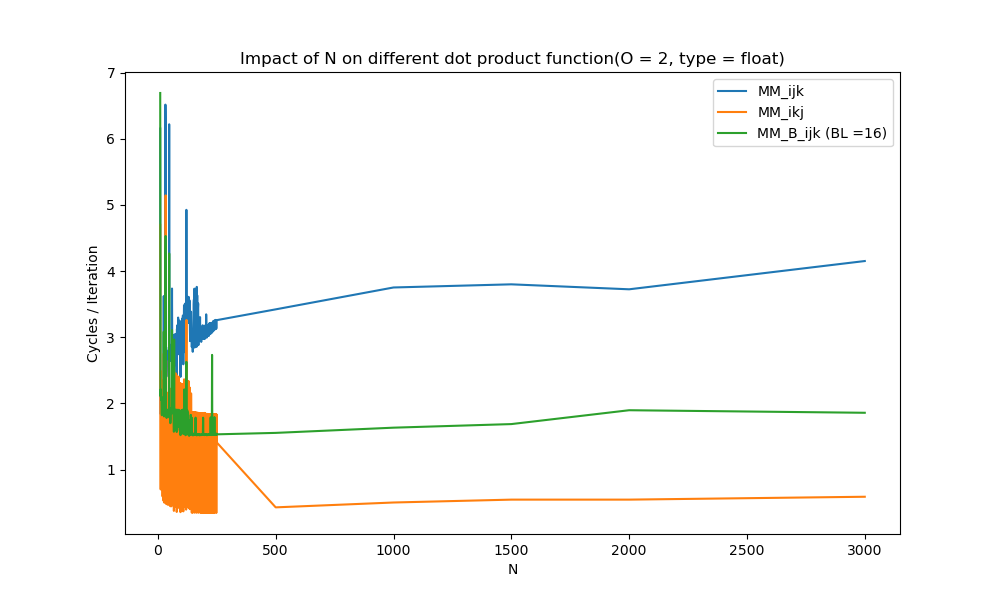
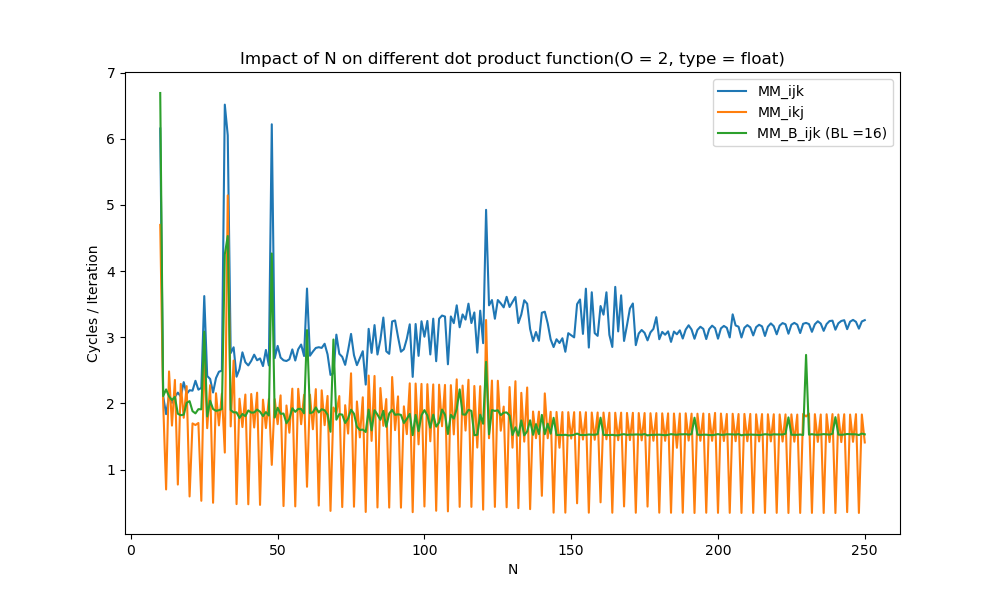
update plot

diff --git a/plot.py b/plot.py
@@ -177,13 +177,7 @@ def main() -> None:
 
     # Processing data generated during script 2
 
-    result_2_N = [f"{i}" for i in range(10, 251)] + [
-        "500",
-        "1000",
-        "1500",
-        "2000",
-        "3000",
-    ]
+    result_2_N = [f"{i}" for i in range(10, 251)]
     result_2_function = ["MM_ijk", "MM_ikj", "MM_B_ijk (BL =16)"]
 
     result2_values_mean = np.zeros((len(result_2_N), len(result_2_function)))
